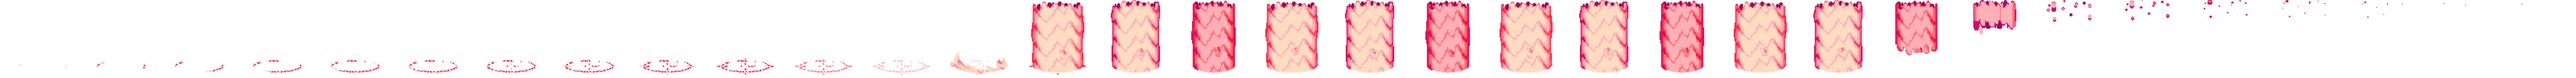
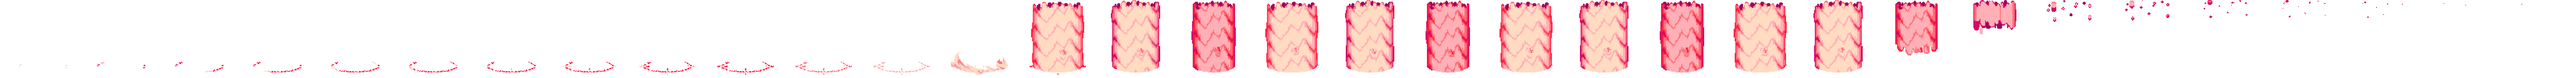
Nameless Transition Position
+ Fixed position with nameless transition

Changed region(s): [[0.2187, 0.84, 0.3125, 0.8711]]

diff --git a/src/states/Level1State.java b/src/states/Level1State.java
@@ -179,7 +179,7 @@ public class Level1State extends GameState {
 		g.fillRect(0, 0, 1024, 640);
 
 		// Scaling for bigger rooms
-		// g2.scale(0.25, 0.25);
+		// g2.scale(2, 2);
 
 		// Updates Camera
 		g2.translate(-camera.getX(), -camera.getY());
@@ -497,47 +497,44 @@ public class Level1State extends GameState {
 						}
 
 					}
-						// Character specials
-						if (k == KeyEvent.VK_SHIFT) { 
-						
-							// 1 = Daanish 	2 = Nicc	3 = Nameless
-							int character = Game.getCharacter();
-							
-							if (character == 1) {
-								
-								
-							} else if (character == 2) {
-																	
-								if (handler.isUp()) {
-									
-									System.out.println("up");
-									
-								} else if (handler.isDown()) {
-									
-									System.out.println("Down");
-									
-								} else if (handler.isRight()) {
-									
-									System.out.println("Right");
-									
-								} else if (handler.isLeft()) {
+					// Character specials
+					if (k == KeyEvent.VK_SHIFT) {
 
-									System.out.println("Left");
-									
-								} else {
-									
-									System.out.println(Nicc.getLastDir());
-									
-								}
-								
+						// 1 = Daanish 2 = Nicc 3 = Nameless
+						int character = Game.getCharacter();
+
+						if (character == 1) {
+
+						} else if (character == 2) {
+
+							if (handler.isUp()) {
+
+								System.out.println("up");
+
+							} else if (handler.isDown()) {
+
+								System.out.println("Down");
+
+							} else if (handler.isRight()) {
+
+								System.out.println("Right");
+
+							} else if (handler.isLeft()) {
+
+								System.out.println("Left");
+
 							} else {
-								
-								
-								
+
+								System.out.println(Nicc.getLastDir());
+
 							}
-						
+
+						} else {
+
 						}
-					
+
+					}
+
 				}
 
 			}

diff --git a/src/game/UI.java b/src/game/UI.java
@@ -304,14 +304,14 @@ public class UI {
 					if (!isCharSwitch()) {
 
 						transitionAni[4].drawAnimation(g,
-								(temp.getX() - (namelessStartTransition[0].getWidth() / 2) + 26) - Camera.getX(),
-								(temp.getY() - (namelessStartTransition[0].getHeight() / 2) - 20) - Camera.getY(), 0);
+								(temp.getX() - (namelessStartTransition[0].getWidth() / 2) + 18) - Camera.getX(),
+								(temp.getY() - (namelessStartTransition[0].getHeight() / 2) - 19) - Camera.getY(), 0);
 
 					} else {
 
 						transitionAni[5].drawAnimation(g,
-								(temp.getX() - (namelessTransition[0].getWidth() / 2) + 32) - Camera.getX(),
-								(temp.getY() - (namelessTransition[0].getHeight() / 2)) - Camera.getY(), 0);
+								(temp.getX() - (namelessTransition[0].getWidth() / 2) + 18) - Camera.getX(),
+								(temp.getY() - (namelessTransition[0].getHeight() / 2) - 19) - Camera.getY(), 0);
 
 					}
 
